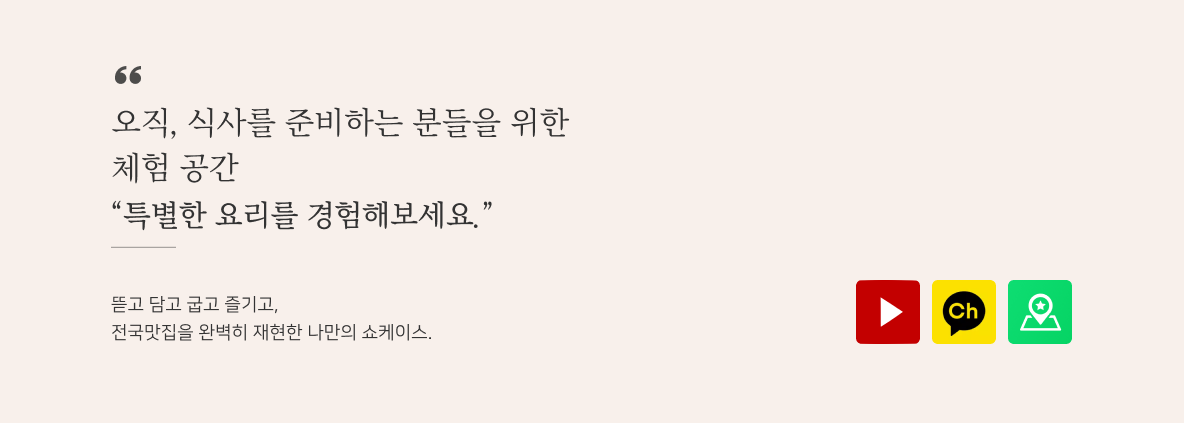
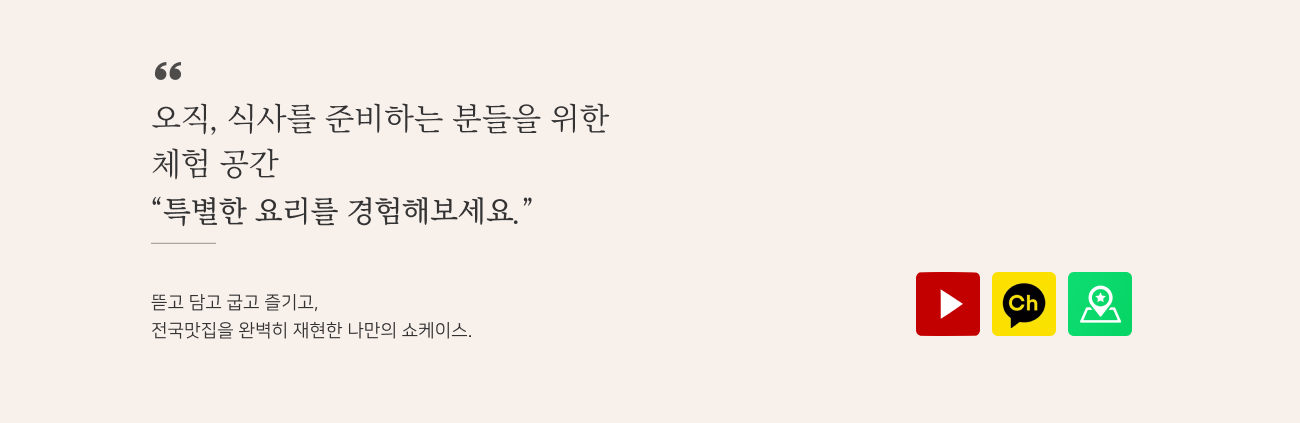
우리집놀러와 스마트스토어 수정

diff --git a/smartStor/index.html b/smartStor/index.html
@@ -113,9 +113,9 @@
                 <div class="inner">
                     <img src="/wn-official/src/img/smartstor/smartstor_info.png" alt="우리집 놀러와 스마트스토어 정보" usemap="#image-map">  
                     <map name="image-map">
-                        <area target="_blank" alt="우리집놀러와 유투브" title="우리집놀러와 유투브" href="https://youtu.be/uUUycx-8uS0" coords="919,280,857,346" shape="rect">
-                        <area target="_blank" alt="우리집놀러와 카카오 채널" title="우리집놀러와 카카오 채널" href="http://pf.kakao.com/_qGLwK" coords="933,282,994,344" shape="rect">
-                        <area target="_blank" alt="우리집놀러와 네이버지도" title="우리집놀러와 네이버지도" href="https://map.naver.com/v5/entry/place/1731325794" coords="1007,280,1073,343" shape="rect">
+                        <area target="_blank" alt="우리집놀러와 유투브" title="우리집놀러와 유투브" href="https://youtu.be/uUUycx-8uS0" coords="980,271,917,337" shape="rect">
+                        <area target="_blank" alt="우리집놀러와 카카오 채널" title="우리집놀러와 카카오 채널" href="http://pf.kakao.com/_qGLwK" coords="1056,272,992,338" shape="rect">
+                        <area target="_blank" alt="우리집놀러와 네이버지도" title="우리집놀러와 네이버지도" href="https://map.naver.com/v5/entry/place/1731325794" coords="1131,272,1067,336" shape="rect">
                     </map>
                 </div>
             </section>
